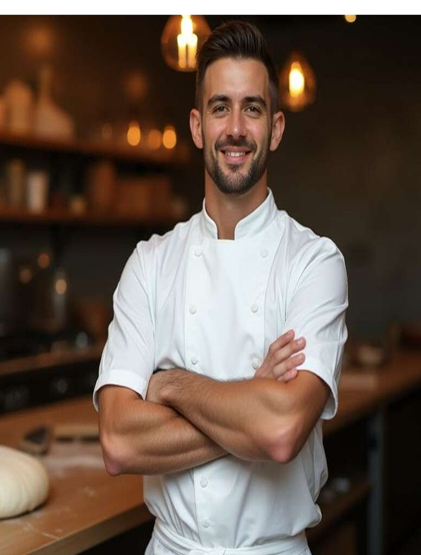
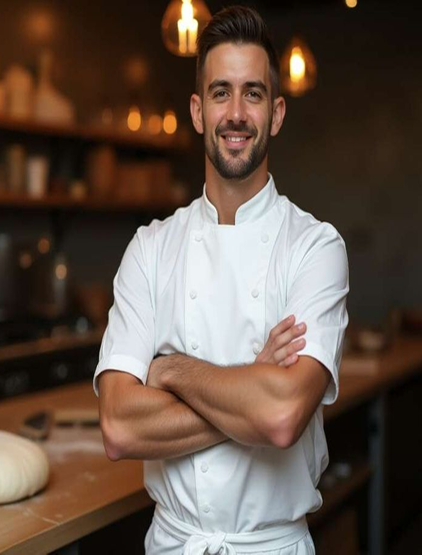
feat: update Chef component to include additional chefs and enhance layout; modify SocialIcon for improved styling and props handling

diff --git a/Spice Route Restaurant/src/pages/Chef/Chef.tsx b/Spice Route Restaurant/src/pages/Chef/Chef.tsx
@@ -39,6 +39,8 @@ function Chef() {
       Chefposition: "Tandoor Chef",
       ChefName: "Rohan Malhotra",
     },
+  ];
+  const Chefs = [
     {
       ChefImg: CurryChefs,
       Chefposition: "Curry Chef",
@@ -54,9 +56,19 @@ function Chef() {
     <>
       <section>
         <HeaderTitle img={Ketchen} Title="Our Chefs" />
-        <div className="flex h-fit px-4 py-10 md:px-16">
-          <div className="flex gap-4">
+        <div className="flex h-fit w-full flex-wrap justify-between gap-5 px-4 py-10 md:px-16">
+          <div className="flex h-fit w-full flex-wrap justify-center gap-4 md:justify-between">
             {chefList.map((chef, index) => (
+              <Chefcard
+                key={index}
+                img={chef.ChefImg}
+                ChefPosition={chef.Chefposition}
+                ChefName={chef.ChefName}
+              />
+            ))}
+          </div>
+          <div className="flex h-fit w-full flex-wrap justify-center gap-4 md:justify-around">
+            {Chefs.map((chef, index) => (
               <Chefcard
                 key={index}
                 img={chef.ChefImg}
@@ -82,7 +94,7 @@ interface ChefcardPropd {
 function Chefcard({ img, ChefPosition, ChefName }: ChefcardPropd) {
   return (
     <>
-      <div className="flex h-fit w-full">
+      <div className="flex h-fit w-fit">
         <div className="bg-card-100 flex h-fit w-fit flex-col gap-4 rounded-3xl p-4">
           <img
             src={img}

diff --git a/Spice Route Restaurant/src/ui/scoiaMedia/socialIcon.tsx b/Spice Route Restaurant/src/ui/scoiaMedia/socialIcon.tsx
@@ -1,11 +1,19 @@
-interface SocialIconProps {
+import { cn } from "@/lib/utils";
+
+interface SocialIconProps  extends React.HTMLAttributes<HTMLDivElement> {
   children: React.ReactNode;
+  className?: string;
 }
 
-export function SocialIcon({ children }: SocialIconProps) {
+export function SocialIcon({ children ,className,...props }: SocialIconProps) {
   return (
     <>
-      <div className="border-button-400 flex h-[1.188rem] w-[1.188rem] items-center justify-center rounded-4xl border p-4 lg:h-7.5 lg:w-7.5">
+      <div
+        className={cn(
+          "border-button-400 flex h-8 w-8 items-center justify-center rounded-4xl border p-5 lg:h-7.5 lg:w-7.5",
+          className
+        )}{...props}
+      >
         <a href="#">{children}</a>
       </div>
     </>
